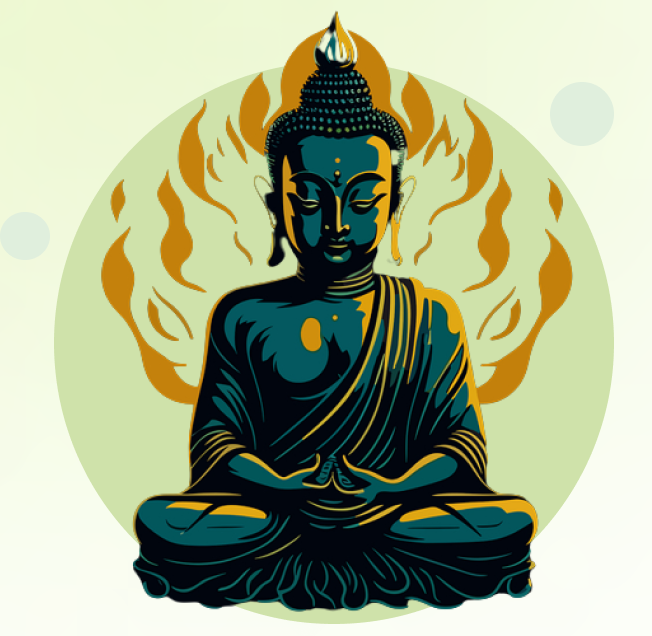
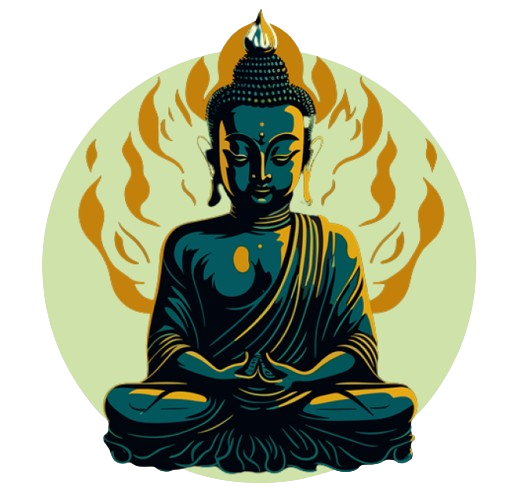
update of buddha image

diff --git a/frontend/src/Components/Homepage.js b/frontend/src/Components/Homepage.js
@@ -2,6 +2,7 @@ import React from 'react';
 import '../Styles/Homepage.css'
 import group from '../image/Group1.jpg'
 import group2 from '../image/Group.png'
+import buddha from '../image/buddha.png'
 import fifthimage from '../image/Ellipse14.jpg'
 import sixthimage from '../image/sixth.jpg'
 import eightfirstimage from '../image/eightfirstimaga.jpg'
@@ -42,7 +43,7 @@ const Homepage = () => {
                         <div className="secondtwosidecontainer">
                             <img
                                 loading="lazy"
-                                srcset="https://s3-alpha-sig.figma.com/img/cb4c/52e8/ec487f09c646297354248705fd771bd2?Expires=1711324800&Key-Pair-Id=APKAQ4GOSFWCVNEHN3O4&Signature=cdb6T4hECm2WgAUS3YdOHWlFrwGm6j9QZk~NUmXWcK1NNmx~93fKjSaDIeLG2cFtAcV6dKZOiq7fCBFodobuAvRgxoytnjzv9-8tff25ITuBinm0NkwKrUXvkhzwLYKNPhFXjo3ndjH3pLad4E~e9DH-G~h69O9KQI8YNaTZVzb2D-f8cyl7riyLPvpoCvu20wW~-BVrQtUS1C25jsGpmZ1O0XQ2R8ELPTOqP4C1uUnQlj0l3KZBVI3gZ~hmcINS-7o4aRzMcRc97Ypmi2~t~nypgrktToARcXxyupTvFe3iCybwM2B8HvDdxESHGL-XTNEcztyo7dq~hdsmOVPFZQ__"
+                                srcset={buddha}
                                 className="img-2"
                                 alt='img'
                             />

diff --git a/frontend/src/Components/FooterComponent.js b/frontend/src/Components/FooterComponent.js
@@ -1,3 +1,4 @@
+// eslint-disable-next-line
 import React from "react"
 import { Link } from 'react-router-dom';
 import '../Styles/Footer.css'
